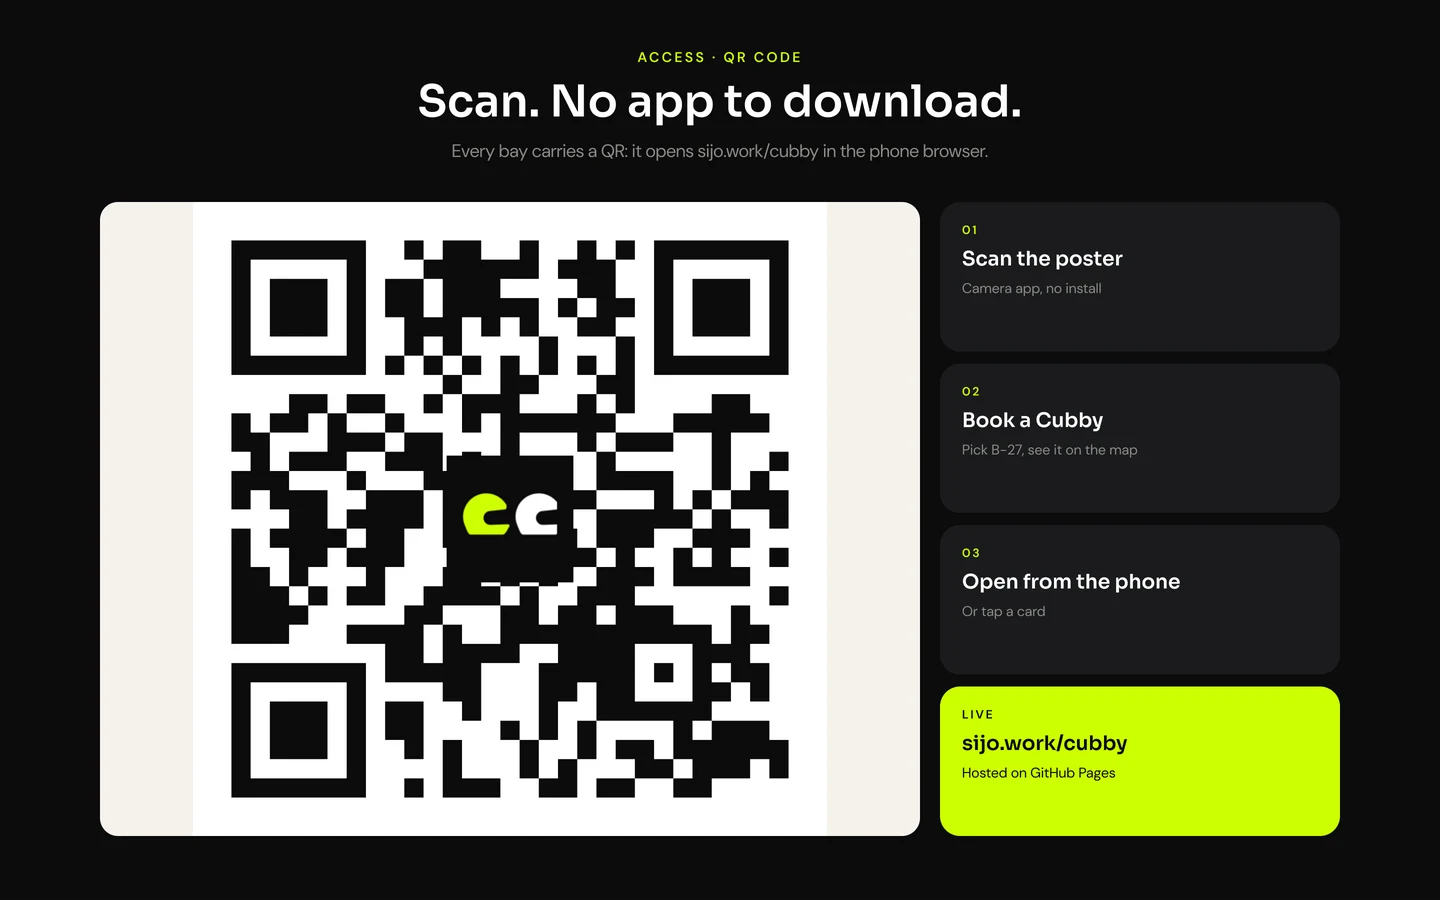
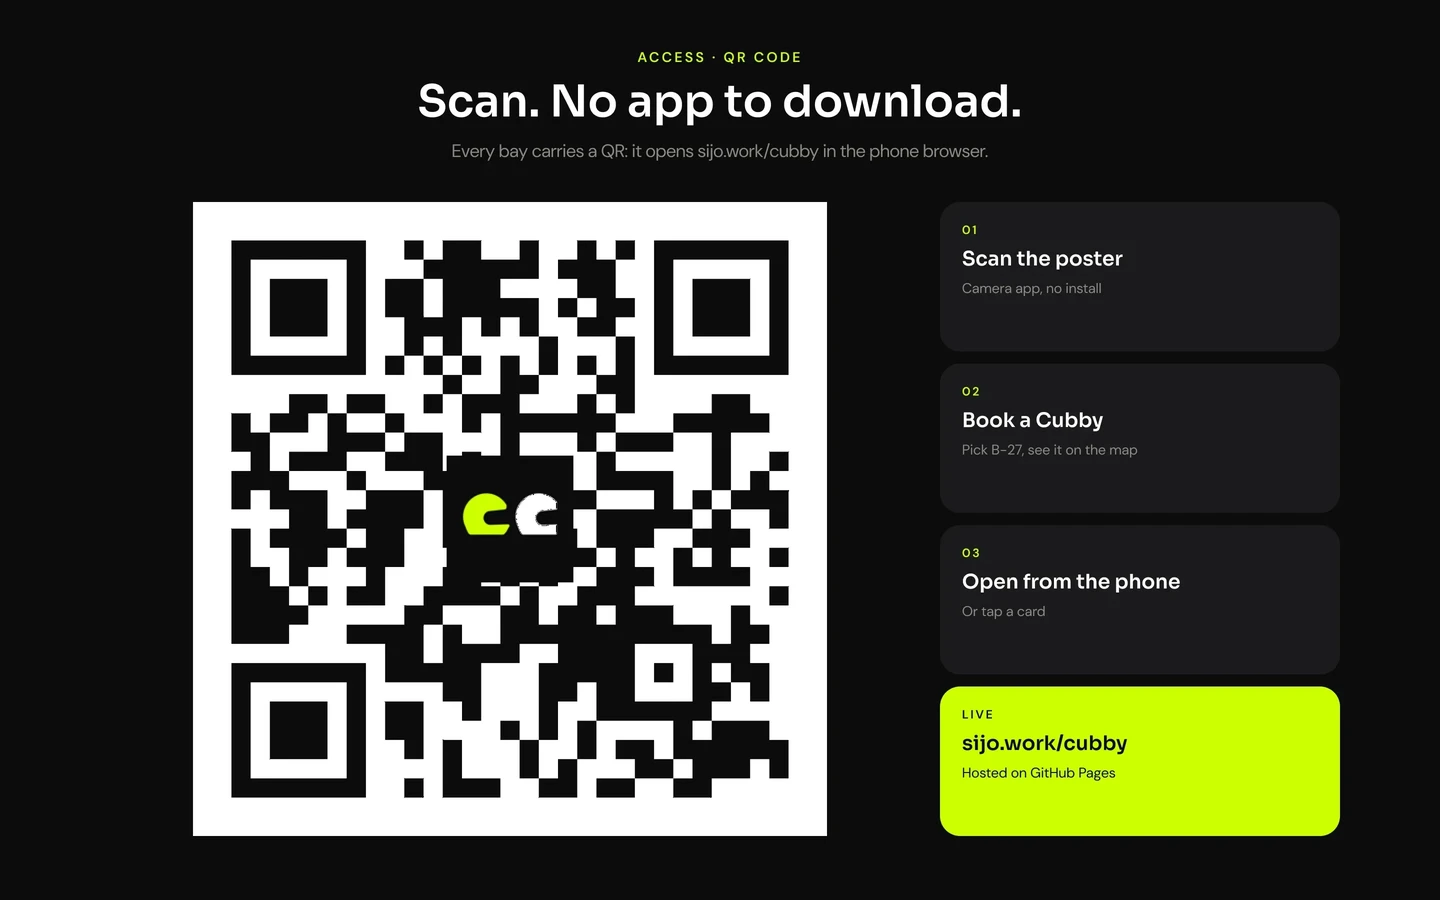
Cubby: QR without the cream frame, after-dark slide as rotatable 3D; two key learnings on each project's opening slide

Changed region(s): [[0.5625, 0.2178, 0.6562, 0.9333], [0.0625, 0.2178, 0.1562, 0.9333], [0.6875, 0.84, 0.7812, 0.8711]]

diff --git a/cubby/index.html b/cubby/index.html
@@ -3,7 +3,7 @@
 <title>Cubby · Sijo Joseph</title>
 <link rel="preconnect" href="https://fonts.googleapis.com">
 <link href="https://fonts.googleapis.com/css2?family=Cormorant+Garamond:wght@300;400&family=Inter+Tight:wght@400;500&display=swap" rel="stylesheet">
-<link rel="stylesheet" href="../deck.css?v=7">
+<link rel="stylesheet" href="../deck.css?v=8">
 <script type="module" src="https://unpkg.com/@google/model-viewer@3.5.0/dist/model-viewer.min.js"></script>
 <link href="https://fonts.googleapis.com/css2?family=Sora:wght@600&family=DM+Sans:wght@400;600&display=swap" rel="stylesheet">
 <style>
@@ -22,10 +22,9 @@
 .bay3d.used .b3-hint{opacity:0}
 </style>
 <script>
-addEventListener("DOMContentLoaded",()=>{const sl=document.getElementById("bay3d"),mv=document.getElementById("bay");
+addEventListener("DOMContentLoaded",()=>{document.querySelectorAll(".bay3d").forEach(sl=>{const mv=sl.querySelector("model-viewer");
 ["touchstart","touchend"].forEach(ev=>mv.addEventListener(ev,e=>e.stopPropagation(),{passive:true}));
-mv.addEventListener("camera-change",e=>{if(e.detail.source==="user-interaction")sl.classList.add("used")});
-sl.addEventListener("enter",()=>{mv.dismissPoster&&mv.dismissPoster()});});
+mv.addEventListener("camera-change",e=>{if(e.detail.source==="user-interaction")sl.classList.add("used")});});});
 </script>
 </head><body data-back="../" data-next="../work/syntra/">
 <header class="bar small"><a href="../">← Back to the bag</a><span class="mut">Design Project 02 · Cubby</span></header>
@@ -85,7 +84,7 @@ sl.addEventListener("enter",()=>{mv.dismissPoster&&mv.dismissPoster()});});
 <section class="slide bay3d" id="bay3d"><div class="b3-head"><p class="b3-eye">THE FINAL OUTPUT</p><h2>Cubby Bay</h2><p class="b3-sub">152 Cubbies · 3 rows · 1 m aisle · rider care · staff station · 6.0 × 3.65 × 2.3 m</p></div>
 <div class="b3-glow"></div>
 <model-viewer id="bay" src="3d/cubby_bay.glb?v=4" alt="Interactive 3D model of the Cubby Bay: 152 Cubbies in three rows around a 1 m aisle" camera-controls disable-zoom disable-pan auto-rotate auto-rotate-delay="2500" rotation-per-second="14deg" interaction-prompt="none" camera-orbit="-38deg 68deg auto" field-of-view="26deg" exposure="1" shadow-intensity="0.6" shadow-softness="1" environment-image="neutral" tone-mapping="aces" loading="eager" reveal="auto"></model-viewer>
-<p class="b3-hint">Drag to rotate</p></section>
+<p class="b3-hint">Drag to rotate 360°</p></section>
 <section class="slide"><img data-src="c53.webp?v=3" data-srcset="c53.webp?v=3 1440w, c53@2x.webp?v=3 2880w" sizes="100vw" alt="Cubby slide 53"></section>
 <section class="slide"><img data-src="c54.webp?v=3" data-srcset="c54.webp?v=3 1440w, c54@2x.webp?v=3 2880w" sizes="100vw" alt="Cubby slide 54"></section>
 <section class="slide"><img data-src="c55.webp?v=3" data-srcset="c55.webp?v=3 1440w, c55@2x.webp?v=3 2880w" sizes="100vw" alt="Cubby slide 55"></section>
@@ -96,7 +95,7 @@ sl.addEventListener("enter",()=>{mv.dismissPoster&&mv.dismissPoster()});});
 <section class="slide"><img data-src="c60.webp?v=3" data-srcset="c60.webp?v=3 1440w, c60@2x.webp?v=3 2880w" sizes="100vw" alt="Cubby slide 60"></section>
 <section class="slide"><img data-src="c61.webp?v=3" data-srcset="c61.webp?v=3 1440w, c61@2x.webp?v=3 2880w" sizes="100vw" alt="Cubby slide 61"></section>
 <section class="slide"><img data-src="c62.webp?v=3" data-srcset="c62.webp?v=3 1440w, c62@2x.webp?v=3 2880w" sizes="100vw" alt="Cubby slide 62"></section>
-<section class="slide"><img data-src="c63.webp?v=3" data-srcset="c63.webp?v=3 1440w, c63@2x.webp?v=3 2880w" sizes="100vw" alt="Cubby slide 63"></section>
+<section class="slide"><img data-src="c63.webp?v=4" data-srcset="c63.webp?v=4 1440w, c63@2x.webp?v=4 2880w" sizes="100vw" alt="Cubby slide 63"></section>
 <section class="slide"><img data-src="c64.webp?v=3" data-srcset="c64.webp?v=3 1440w, c64@2x.webp?v=3 2880w" sizes="100vw" alt="Cubby slide 64"></section>
 <section class="slide"><img data-src="c65.webp?v=3" data-srcset="c65.webp?v=3 1440w, c65@2x.webp?v=3 2880w" sizes="100vw" alt="Cubby slide 65"></section>
 <section class="slide"><img data-src="c66.webp?v=3" data-srcset="c66.webp?v=3 1440w, c66@2x.webp?v=3 2880w" sizes="100vw" alt="Cubby slide 66"></section>
@@ -112,7 +111,10 @@ sl.addEventListener("enter",()=>{mv.dismissPoster&&mv.dismissPoster()});});
 <section class="slide"><img data-src="c76.webp?v=3" data-srcset="c76.webp?v=3 1440w, c76@2x.webp?v=3 2880w" sizes="100vw" alt="Cubby slide 76"></section>
 <section class="slide"><img data-src="c77.webp?v=3" data-srcset="c77.webp?v=3 1440w, c77@2x.webp?v=3 2880w" sizes="100vw" alt="Cubby slide 77"></section>
 <section class="slide"><img data-src="c78.webp?v=3" data-srcset="c78.webp?v=3 1440w, c78@2x.webp?v=3 2880w" sizes="100vw" alt="Cubby slide 78"></section>
-<section class="slide"><img data-src="c79.webp?v=3" data-srcset="c79.webp?v=3 1440w, c79@2x.webp?v=3 2880w" sizes="100vw" alt="Cubby slide 79"></section>
+<section class="slide bay3d" id="bay3d2"><div class="b3-head"><p class="b3-eye">BRAND IN PLACE · AFTER DARK</p><h2>Lime is only ever light</h2><p class="b3-sub">At night the bay is the brightest, safest corner of the basement.</p></div>
+<div class="b3-glow"></div>
+<model-viewer id="bay2" src="3d/cubby_bay.glb?v=4" alt="Interactive 3D model of the Cubby Bay: 152 Cubbies in three rows around a 1 m aisle" camera-controls disable-zoom disable-pan auto-rotate rotation-per-second="14deg" interaction-prompt="none" camera-orbit="-38deg 68deg auto" auto-rotate-delay="0" field-of-view="26deg" exposure="0.6" shadow-intensity="0.6" shadow-softness="1" environment-image="neutral" tone-mapping="aces" loading="eager" reveal="auto"></model-viewer>
+<p class="b3-hint">Drag to rotate 360°</p></section>
 <section class="slide"><img data-src="c80.webp?v=3" data-srcset="c80.webp?v=3 1440w, c80@2x.webp?v=3 2880w" sizes="100vw" alt="Cubby slide 80"></section>
 <section class="slide learn" style="--acc:#CCFF00"><div class="lk"><p class="eyebrow">My learnings · Cubby</p><h2>If I started again…</h2><div class="cols two"><div><h3>Learned</h3><ul><li>Measure first. My first box was guessed, and wrong.</li><li>Count, don’t just observe: log n for every interview.</li><li>Prototype the lock earlier; it changed the band, the bay and the height.</li><li>Design for the basement: no signal, low light, dust.</li></ul></div><div><h3>Next</h3><ol><li>Bench-test the Tronic lock; set the keeper hole.</li><li>Measure 10–15 more helmets with photo proof.</li><li>8–12 structured interviews and a 2-hour helmet count.</li><li>Apply the 0.045 m band to Bay Primary and Foyer.</li><li>Supplier quotes on the same drawings.</li></ol></div></div><a class="next" href="../work/syntra/">Next project: Syntra →</a></div></section>
 </div></main>

diff --git a/work/syntra/index.html b/work/syntra/index.html
@@ -3,12 +3,12 @@
 <title>Syntra · Sijo Joseph</title>
 <link rel="preconnect" href="https://fonts.googleapis.com">
 <link href="https://fonts.googleapis.com/css2?family=Cormorant+Garamond:wght@300;400&family=Inter+Tight:wght@400;500&family=Lato:wght@100;300;400&display=swap" rel="stylesheet">
-<link rel="stylesheet" href="../../deck.css?v=7">
+<link rel="stylesheet" href="../../deck.css?v=8">
 <link rel="stylesheet" href="syntra.css">
 </head><body data-back="../../" data-next="../../nobroker/">
 <header class="bar small"><a href="../../">← Back to the bag</a><span class="mut">Retail Tech · Syntra</span></header>
 <main class="deck"><div class="track">
-<section class="slide title syx" style="--bg:#FBF4EA"><div class="txt"><p class="small mut">Retail Technology · Semester 03 · 2026</p><h1>Syntra</h1><p class="lead">An interactive perfume finder for ZARA: turn a knob and three sliders, see your scent, step into its world in VR and take it home on a ticket that comes alive in AR.</p><div class="key" style="--acc:#BD680F"><b>Key learning</b><q>Start from a feeling. People know their mood, not the perfume notes.</q></div><a class="skip small" href="../../nobroker/">Skip to No-Broker →</a></div><img class="obj" src="../../perfume.png" alt=""></section>
+<section class="slide title syx" style="--bg:#FBF4EA"><div class="txt"><p class="small mut">Retail Technology · Semester 03 · 2026</p><h1>Syntra</h1><p class="lead">An interactive perfume finder for ZARA: turn a knob and three sliders, see your scent, step into its world in VR and take it home on a ticket that comes alive in AR.</p><div class="key" style="--acc:#BD680F"><b>Key learnings</b><ol class="kl"><li>People know their mood, not the perfume notes. Start from a feeling.</li><li>One clear answer beats a wall of choices: always give a match.</li></ol></div><a class="skip small" href="../../nobroker/">Skip to No-Broker →</a></div><img class="obj" src="../../perfume.png" alt=""></section>
 <section class="slide sx full" data-page="01" data-x="0" data-y="0" data-w="1440" data-h="721" style="--t:#f4ead5;--b:#e3d7c1;--l:#f2e6ce;--r:#ecdec4;--w:1440;--h:721" data-bg="q/b01.webp?v=2"><div class="stage"><img class="base" data-src="q/s01.webp?v=2" data-srcset="q/s01.webp?v=2 1x, q/s01@2x.webp?v=2 2x" alt="Syntra, slide 1"></div></section>
 <section class="slide sx full" data-page="01" data-x="0" data-y="721" data-w="1440" data-h="910" style="--t:#e3d6c1;--b:#ffffff;--l:#fcf9f3;--r:#e4d1b3;--w:1440;--h:910" data-bg="q/b02.webp?v=2"><div class="stage"><img class="base" data-src="q/s02.webp?v=2" data-srcset="q/s02.webp?v=2 1x, q/s02@2x.webp?v=2 2x" alt="Syntra, slide 2"></div></section>
 <section class="slide sx full" data-page="01" data-x="0" data-y="1632" data-w="1440" data-h="1093" style="--t:#ffffff;--b:#ffffff;--l:#e8dac6;--r:#ffffff;--w:1440;--h:1093" data-bg="q/b03.webp?v=2"><div class="stage"><img class="base" data-src="q/s03.webp?v=2" data-srcset="q/s03.webp?v=2 1x, q/s03@2x.webp?v=2 2x" alt="Syntra, slide 3"></div></section>

diff --git a/nobroker/index.html b/nobroker/index.html
@@ -3,11 +3,11 @@
 <title>No-Broker · Sijo Joseph</title>
 <link rel="preconnect" href="https://fonts.googleapis.com">
 <link href="https://fonts.googleapis.com/css2?family=Cormorant+Garamond:wght@300;400&family=Inter+Tight:wght@400;500&display=swap" rel="stylesheet">
-<link rel="stylesheet" href="../deck.css?v=7">
+<link rel="stylesheet" href="../deck.css?v=8">
 </head><body data-back="../" data-next="../sla3/">
 <header class="bar small"><a href="../">← Back to the bag</a><span class="mut">Design Management · No-Broker</span></header>
 <main class="deck"><div class="track">
-<section class="slide title"><div class="txt"><p class="small mut">Design Management · Semester 03 · 2026</p><h1>No-Broker</h1><p class="lead">Taking NoBroker into India’s Tier-2 cities, starting with the Chandigarh Tricity: market research, a trust-first campaign, the app layer and the investment plan.</p><div class="key" style="--acc:#FD3752"><b>Key learning</b><q>In Tier-2 cities, people trust people before platforms.</q></div><a class="skip small" href="../sla3/">Skip to SLA III →</a></div><img class="obj" src="../notebook.png" alt=""></section>
+<section class="slide title"><div class="txt"><p class="small mut">Design Management · Semester 03 · 2026</p><h1>No-Broker</h1><p class="lead">Taking NoBroker into India’s Tier-2 cities, starting with the Chandigarh Tricity: market research, a trust-first campaign, the app layer and the investment plan.</p><div class="key" style="--acc:#FD3752"><b>Key learnings</b><ol class="kl"><li>In Tier-2 cities, people trust people before platforms.</li><li>Numbers are design too: a payback plan turned the expansion into a plan, not a pitch.</li></ol></div><a class="skip small" href="../sla3/">Skip to SLA III →</a></div><img class="obj" src="../notebook.png" alt=""></section>
 <section class="slide"><img data-src="hd/m01.webp" data-srcset="hd/m01.webp 1280w, hd/m01@2x.webp 2560w" sizes="100vw" alt="No-Broker slide 1"></section>
 <section class="slide"><img data-src="hd/m02.webp" data-srcset="hd/m02.webp 1280w, hd/m02@2x.webp 2560w" sizes="100vw" alt="No-Broker slide 2"></section>
 <section class="slide"><img data-src="hd/m03.webp" data-srcset="hd/m03.webp 1280w, hd/m03@2x.webp 2560w" sizes="100vw" alt="No-Broker slide 3"></section>

diff --git a/ergonomics/index.html b/ergonomics/index.html
@@ -3,11 +3,11 @@
 <title>Ergonomics · Sijo Joseph</title>
 <link rel="preconnect" href="https://fonts.googleapis.com">
 <link href="https://fonts.googleapis.com/css2?family=Cormorant+Garamond:wght@300;400&family=Inter+Tight:wght@400;500&display=swap" rel="stylesheet">
-<link rel="stylesheet" href="../deck.css?v=7">
+<link rel="stylesheet" href="../deck.css?v=8">
 </head><body data-back="../" data-next="../">
 <header class="bar small"><a href="../">← Back to the bag</a><span class="mut">Ergonomics</span></header>
 <main class="deck"><div class="track">
-<section class="slide title"><div class="txt"><p class="small mut">Ergonomics · Semester 03 · 2026</p><h1>Ergonomics</h1><p class="lead">A lift panel that a standing adult and a wheelchair user can both reach, then a team audit of IKEA Bangalore: wayfinding, showroom vs warehouse, decision support, sensory load and accessibility.</p><div class="key" style="--acc:#C9A800"><b>Key learning</b><q>IKEA fits the body. It strains the mind.</q></div><a class="skip small" href="../">Skip to the bag →</a></div><img class="obj" src="../lipbalm.png" alt=""></section>
+<section class="slide title"><div class="txt"><p class="small mut">Ergonomics · Semester 03 · 2026</p><h1>Ergonomics</h1><p class="lead">A lift panel that a standing adult and a wheelchair user can both reach, then a team audit of IKEA Bangalore: wayfinding, showroom vs warehouse, decision support, sensory load and accessibility.</p><div class="key" style="--acc:#C9A800"><b>Key learnings</b><ol class="kl"><li>A space can pass every reach check and still tire people out: ergonomics is the body and the mind.</li><li>Design for the full range, not the average body: standing, seated, child and elderly.</li></ol></div><a class="skip small" href="../">Skip to the bag →</a></div><img class="obj" src="../lipbalm.png" alt=""></section>
 <section class="slide"><img data-src="e01.webp" alt="Exercise: lift control panel for floors B2 to 20, reachable standing or from a wheelchair"></section>
 <section class="slide"><img data-src="e02.webp" alt="IKEA Bangalore visit: observation and improvement report, five templates"></section>
 <section class="slide"><img data-src="e03.webp" alt="Template A: entry and wayfinding"></section>

diff --git a/ather/index.html b/ather/index.html
@@ -3,11 +3,11 @@
 <title>Ather Energy · Sijo Joseph</title>
 <link rel="preconnect" href="https://fonts.googleapis.com">
 <link href="https://fonts.googleapis.com/css2?family=Cormorant+Garamond:wght@300;400&family=Inter+Tight:wght@400;500&display=swap" rel="stylesheet">
-<link rel="stylesheet" href="../deck.css?v=7">
+<link rel="stylesheet" href="../deck.css?v=8">
 </head><body data-back="../" data-next="../ergonomics/">
 <header class="bar small"><a href="../">← Back to the bag</a><span class="mut">Retail Systems &amp; Processes · Ather Energy</span></header>
 <main class="deck"><div class="track">
-<section class="slide title"><div class="txt"><p class="small mut">Retail Systems &amp; Processes · Semester 03 · 2026</p><h1>Ather Energy</h1><p class="lead">With Utsav Sharma. Reading Ather’s retail system end to end: market, brand, stores and users, then designing the Halo kiosk and a merchandise revamp.</p><div class="key" style="--acc:#00A88F"><b>Key learning</b><q>Ather sells an ecosystem. Its stores still sell a scooter.</q></div><a class="skip small" href="../ergonomics/">Skip to Ergonomics →</a></div><img class="obj" src="../pen.png" alt=""></section>
+<section class="slide title"><div class="txt"><p class="small mut">Retail Systems &amp; Processes · Semester 03 · 2026</p><h1>Ather Energy</h1><p class="lead">With Utsav Sharma. Reading Ather’s retail system end to end: market, brand, stores and users, then designing the Halo kiosk and a merchandise revamp.</p><div class="key" style="--acc:#00A88F"><b>Key learnings</b><ol class="kl"><li>The showroom undersells the product: the hero scooter gets no hero treatment.</li><li>Accessories are a business, not an add-on: a small kiosk can grow them.</li></ol></div><a class="skip small" href="../ergonomics/">Skip to Ergonomics →</a></div><img class="obj" src="../pen.png" alt=""></section>
 <section class="slide"><img data-src="hd/h001.webp" alt="Ather Energy slide 1"></section>
 <section class="slide"><img data-src="hd/h002.webp" alt="Ather Energy slide 2"></section>
 <section class="slide"><img data-src="hd/h003.webp" alt="Ather Energy slide 3"></section>

diff --git a/deck.css b/deck.css
@@ -78,3 +78,6 @@ body.ui-top .bar,body.ui-bottom .foot,.bar:focus-within,.foot:focus-within{opaci
 .nav{opacity:0!important;transition:opacity .25s}
 .nav:hover,.nav:focus-visible{opacity:1!important}
 @media (hover:none){.nav{opacity:.85!important}}
+.key .kl{list-style:none;counter-reset:k;display:grid;gap:12px;max-width:52ch}
+.key .kl li{counter-increment:k;display:grid;grid-template-columns:28px 1fr;font-family:"Cormorant Garamond",serif;font-size:clamp(19px,1.75vw,26px);line-height:1.2;color:var(--ink)}
+.key .kl li::before{content:"0" counter(k);font:500 11px/2.2 "Inter Tight",sans-serif;letter-spacing:.08em;color:var(--acc,#111)}
